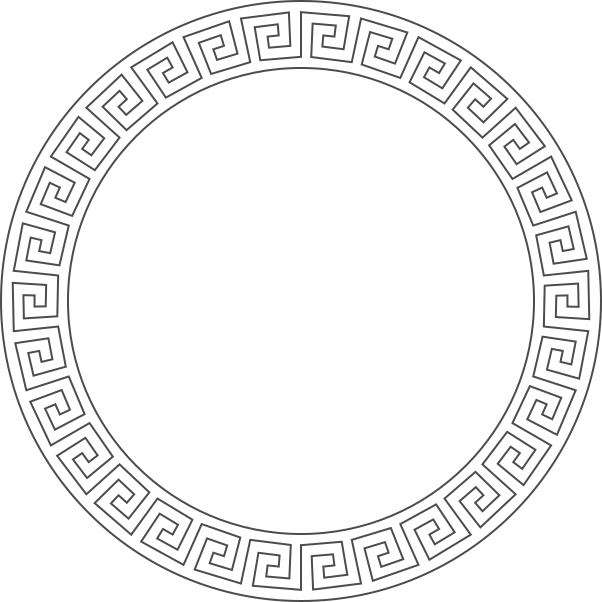
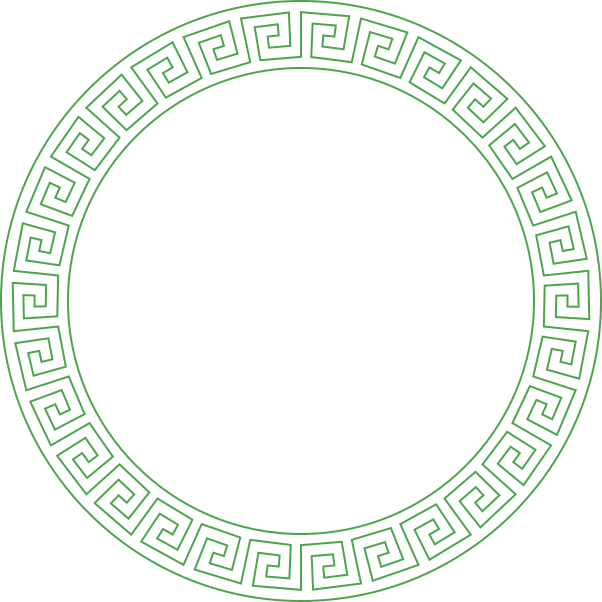
fixed version and changed sample circle image

Changed region(s): [[0.0, 0.0, 1.0, 1.0]]

diff --git a/README.md b/README.md
@@ -67,6 +67,7 @@ meander rect [options]
 #### Rectangle Example
 
 To run the python script directly
+
 ```bash
 python meander.py --stroke-color "#AB8E0E" --stroke-opacity 0.7 rect --width 24 --height 13 --size 10
 ```
@@ -93,9 +94,16 @@ meander circle [options]
 | `--radius` | int | 300 | The radius of the circle. |
 
 #### Circle Example
+To run the python script directly
 
 ```bash
-meander --stroke-color black --file images/meander_circle circle
+python meander.py --stroke-color green --file images/meander_circle circle
+```
+
+Or if you installed `greak_meander`
+
+```bash
+meander --stroke-color green --file images/meander_circle circle
 ```
 
 ## License
